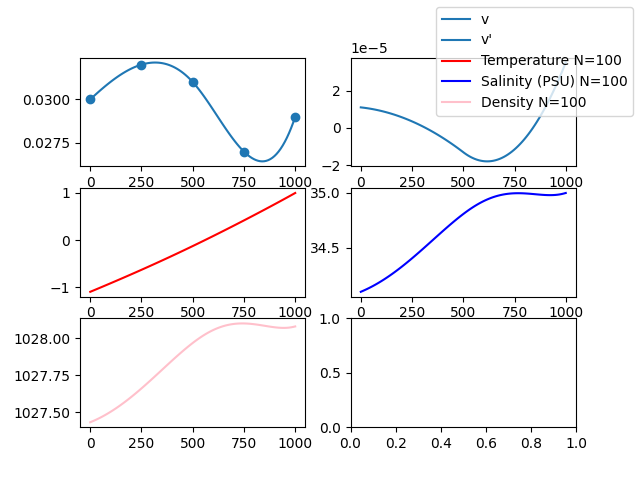
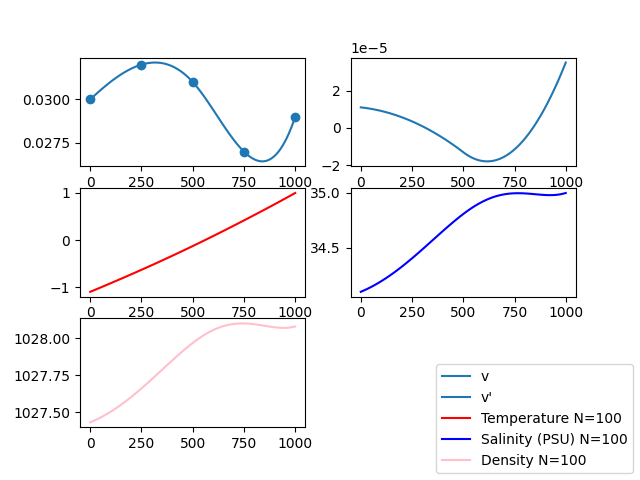
uwu

diff --git a/project.py b/project.py
@@ -41,14 +41,14 @@ def main():
     ys_density = density_approximation(ys_temperature, ys_salinity, xs)
 
     fig, ax = plt.subplots(3,2)
+    fig.delaxes(ax[2,1])
     ax[0,0].plot(xs, velocities, label=f'v')
     ax[0,0].scatter(distance_from_plume, measured_velocity)
     ax[0,1].plot(xs, velocities_p, label=f'v\'')
     ax[1,0].plot(xs, ys_temperature, label = f'Temperature N={N}', color = 'red')
     ax[1,1].plot(xs, ys_salinity, label = f'Salinity (PSU) N={N}', color = 'blue')
     ax[2,0].plot(xs, ys_density, label = f'Density N={N}', color="pink")
-
-    fig.legend()
+    fig.legend(loc = 'lower right')
     plt.show()
 
 
